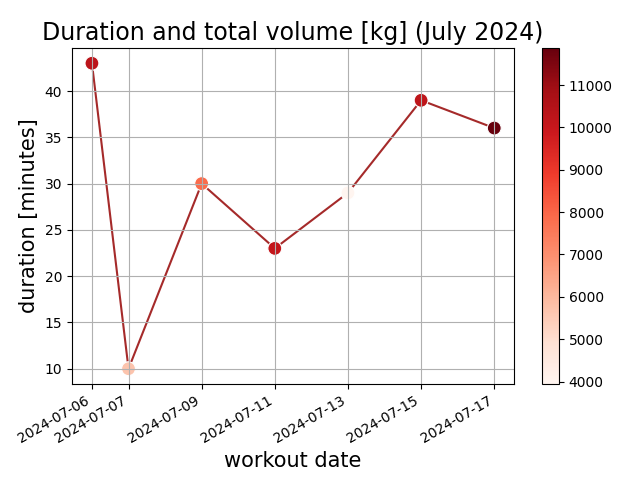
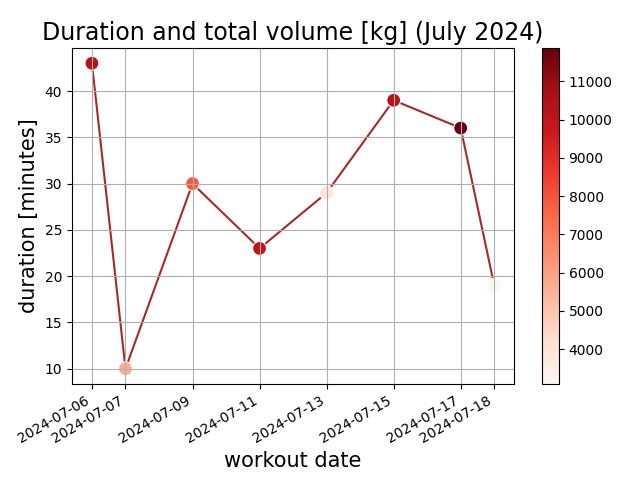
chore: add todays workout. add splits to yaml_schema. update exercise name in workout-programs-detail

diff --git a/docs/project_docs/Workout-Programs/workout-programs-detail.md b/docs/project_docs/Workout-Programs/workout-programs-detail.md
@@ -9,7 +9,7 @@
 | Bench Press                 | 3    |
 | Incline DB Press            | 3    |
 | DB/machine Flys             | 3    |
-| Cable low-to-high Crossover | 3    |
+| Cable low-to-high Flys      | 3    |
 | DB Pullover                 | 3    |
 
 ### Back
